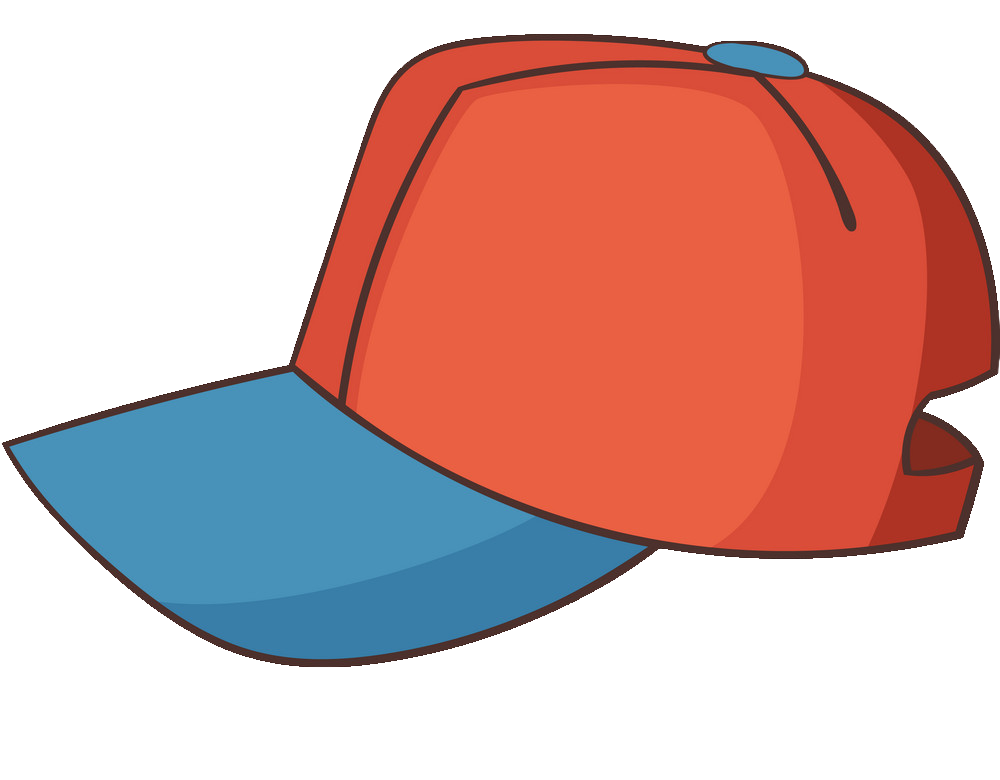
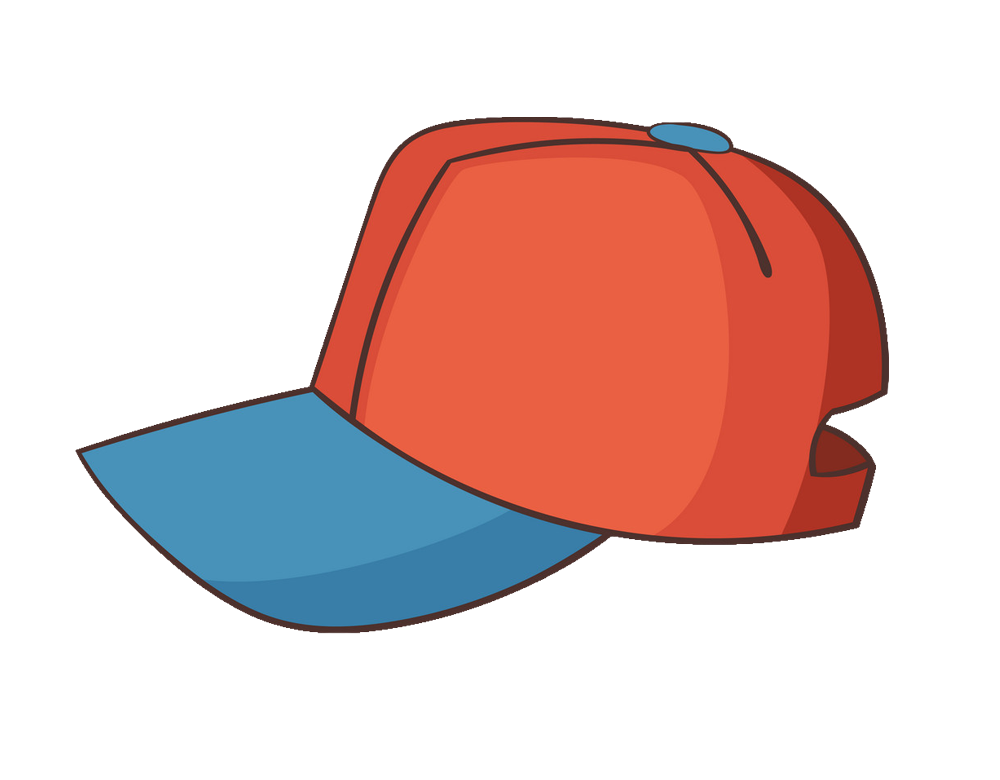
adding new images

Changed region(s): [[0.0, 0.0308, 1.0, 0.8615], [0.744, 0.2769, 0.775, 0.3692]]

diff --git a/src/components/directory-item/directory-item.styles.jsx b/src/components/directory-item/directory-item.styles.jsx
@@ -1,9 +1,10 @@
 import styled from 'styled-components';
 
 export const BackgroundImage = styled.div`
-  width: 100%;
-  height: 100%;
-  background-size: cover;
+  width: 300px;
+  height: 300px;
+  background-size: contain;
+  background-repeat: no-repeat;
   background-position: center;
   background-image: ${({ imageUrl }) => `url(${imageUrl})`};
 `;
@@ -15,16 +16,13 @@ export const Body = styled.div`
   flex-direction: column;
   align-items: center;
   justify-content: center;
-  border: 1px solid black;
-  background-color: white;
-  opacity: 0.7;
-  position: absolute;
+  
 
   h2 {
     font-weight: bold;
     margin: 0 6px 0;
     font-size: 22px;
-    color: #4a4a4a;
+    
     text-transform: uppercase;
   }
 
@@ -35,14 +33,14 @@ export const Body = styled.div`
 `;
 
 export const DirectoryItemContainer = styled.div`
-  min-width: 30%;
-  height: 240px;
+  
+  height: 300px;
   flex: 1 1 auto;
   display: flex;
+  flex-direction: column;
   align-items: center;
   justify-content: center;
-  border: 2px solid white;
-  border-radius: 0px;
+  
   margin: 0 7.5px 15px;
   overflow: hidden;
 
@@ -57,10 +55,7 @@ export const DirectoryItemContainer = styled.div`
   &:hover {
     cursor: pointer;
 
-    ${BackgroundImage} {
-      transform: scale(1.1);
-      transition: transform 6s cubic-bezier(0.25, 0.45, 0.45, 0.95);
-    }
+    
 
     ${Body} {
       opacity: 0.9;

diff --git a/src/components/directory/directory.component.jsx b/src/components/directory/directory.component.jsx
@@ -6,19 +6,19 @@ const categories = [
   {
     id: 1,
     title: 'hats',
-    imageUrl: 'https://i.ibb.co/cvpntL1/hats.png',
+    imageUrl: 'https://github.com/nima-karami/boring-wear/blob/main/src/assets/cap.png?raw=true',
     route: 'shop/hats',
   },
   {
     id: 2,
     title: 'jackets',
-    imageUrl: 'https://i.ibb.co/px2tCc3/jackets.png',
+    imageUrl: 'https://github.com/nima-karami/boring-wear/blob/main/src/assets/jacket.png?raw=true',
     route: 'shop/jackets',
   },
   {
     id: 3,
     title: 'sneakers',
-    imageUrl: 'https://i.ibb.co/0jqHpnp/sneakers.png',
+    imageUrl: 'https://github.com/nima-karami/boring-wear/blob/main/src/assets/sneaker.png?raw=true',
     route: 'shop/sneakers',
   },
   {
@@ -30,7 +30,7 @@ const categories = [
   {
     id: 5,
     title: 'mens',
-    imageUrl: 'https://i.ibb.co/R70vBrQ/men.png',
+    imageUrl: 'https://github.com/nima-karami/boring-wear/blob/main/src/assets/shirt.png?raw=true',
     route: 'shop/mens',
   },
 ];

diff --git a/src/components/directory-item/directory-item.component.jsx b/src/components/directory-item/directory-item.component.jsx
@@ -14,11 +14,11 @@ const DirectoryItem = ({ category }) => {
 
   return (
     <DirectoryItemContainer onClick={onNavigateHandler}>
-      <BackgroundImage imageUrl={imageUrl} />
       <Body>
         <h2>{title}</h2>
-        <p>Shop Now</p>
       </Body>
+      <BackgroundImage imageUrl={imageUrl} />
+      
     </DirectoryItemContainer>
   );
 };
